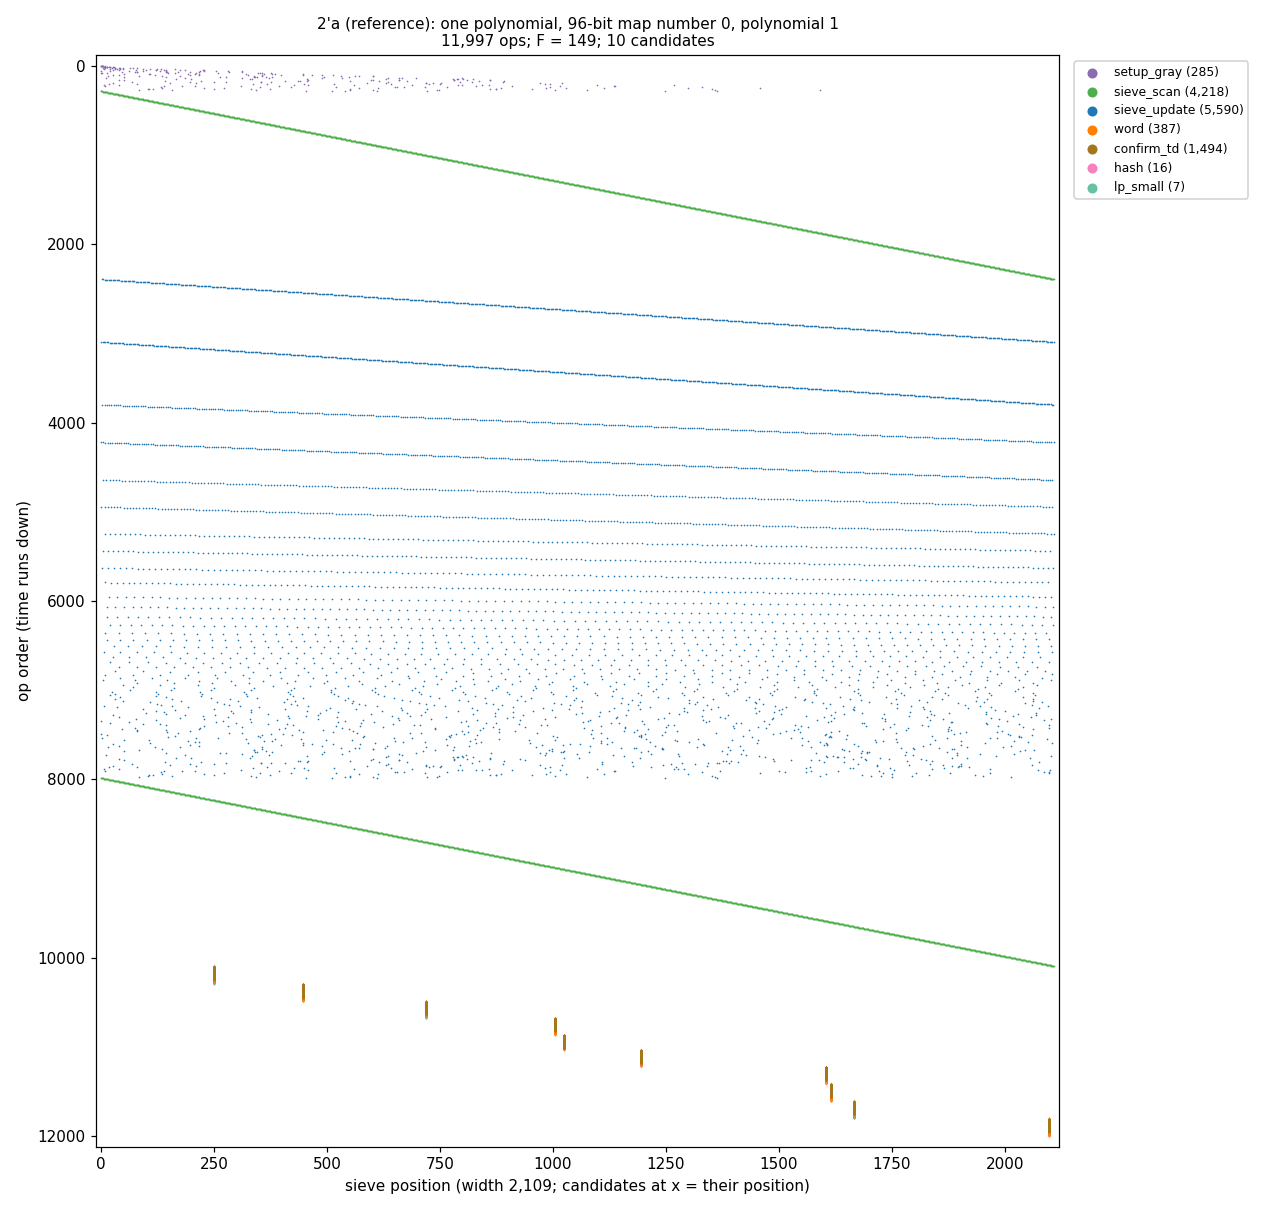
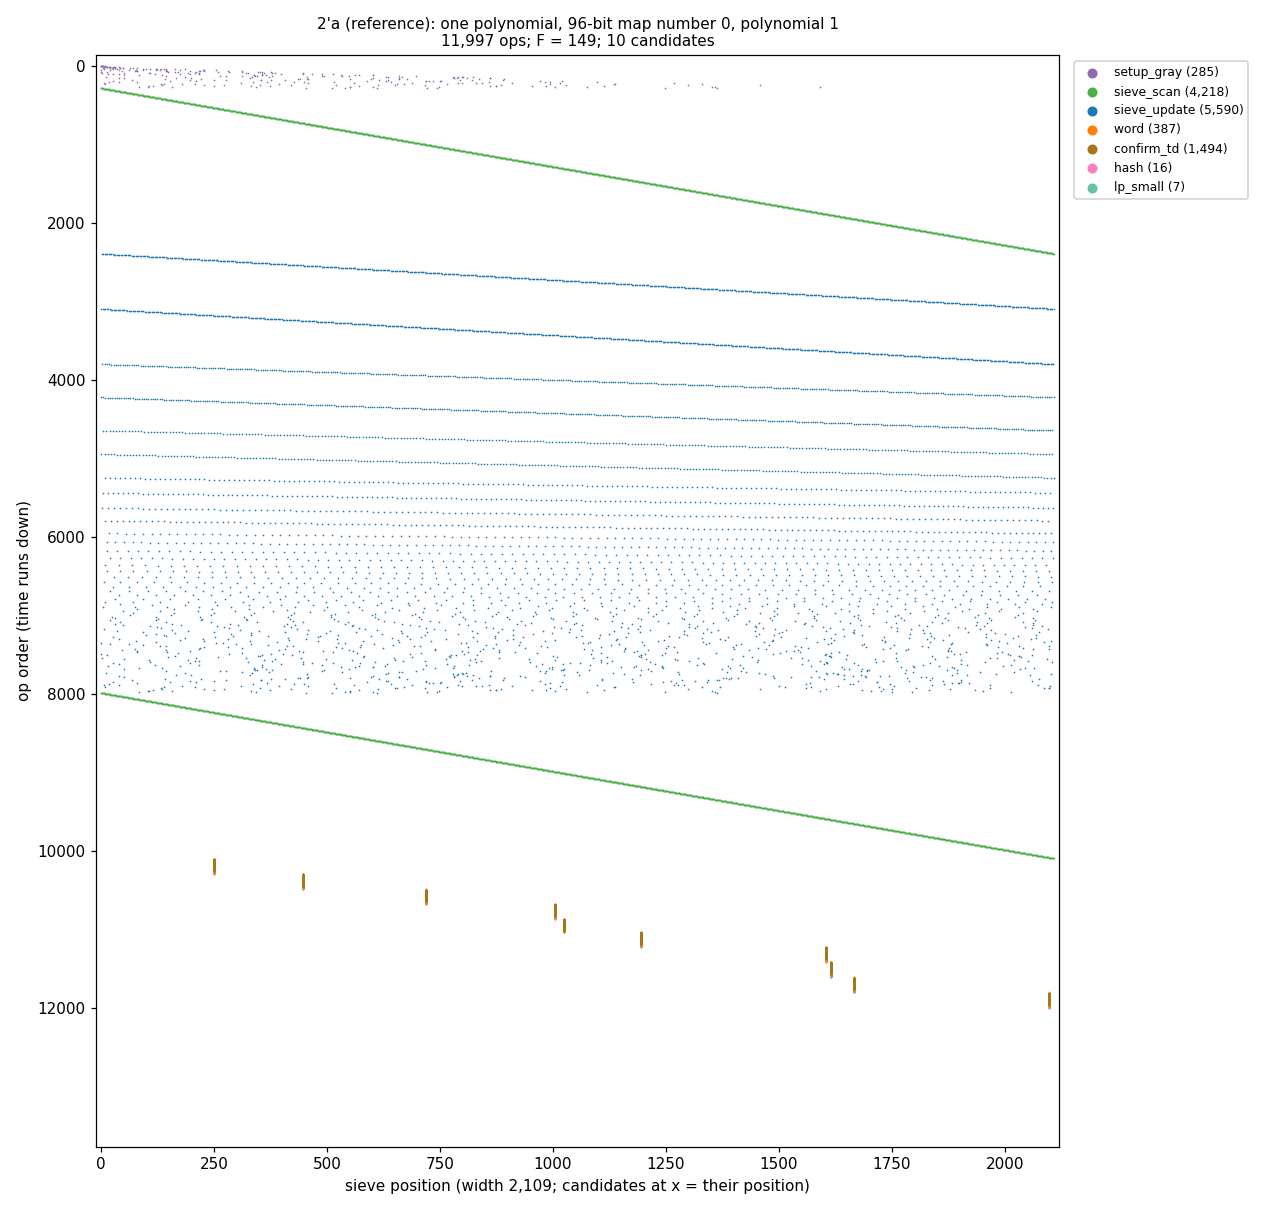
Stage 1: reviews/worktraces.md (the four work-trace pictures with plain-English captions: axes, colours, the free-2 grey band, the root-confirm ticks) and a fourth picture, the reference since Oct 27 (2'b, corrected meter; op for op the 2'b trace, since no pp); all pictures on one y axis; Python onl

diff --git a/evolve/worktrace.py b/evolve/worktrace.py
@@ -3,6 +3,7 @@ of one 96-bit map number, as motion on the sieve line. x = sieve position (or th
 per-candidate work), y = op order (time runs down). Each op is a mark coloured by its charged type; uncharged work grey.
 Cells: the reference (2'a), 2'b, and 2'b+pp3 (+0) drawn under the uncorrected meter (the free 2's writes uncharged,
 as before 6031239). Checks that the run's op count is identical with the hook on and off.
+  Also the reference since Oct 27 (2'b; no pp, so the corrected meter changes nothing in it). All pictures share one y axis.
   python3 worktrace.py -> worktrace_<cell>.png, worktrace.json (event counts), stdout"""
 import json
 import matplotlib
@@ -16,11 +17,13 @@ N = S2.map_nums(96)[0][0]
 g0 = dict(ref(96), goff=1)
 CELLS = [("2'a (reference)", "2a", dict(g0), "corrected"),
          ("2'b", "2b", dict(g0, confirm="root"), "corrected"),
-         ("2'b+pp3 +0, uncorrected meter", "2b_pp3_uncorrected", dict(g0, confirm="root", pp=3), "uncorrected")]
+         ("2'b+pp3 +0, uncorrected meter", "2b_pp3_uncorrected", dict(g0, confirm="root", pp=3), "uncorrected"),
+         ("the reference since Oct 27 (2'b), corrected meter", "reference_2b", dict(g0, confirm="root"), "corrected")]
 COL = {"setup_gray": "#8c6bb1", "sieve_scan": "#4daf4a", "sieve_update": "#1f78b4", "word": "#ff7f00",
        "root_test": "#e31a1c", "confirm_td": "#a6761d", "hash": "#f781bf", "lp_small": "#66c2a5", "lp_full": "#1b9e77",
        "sieve_scan:free2": "#4daf4a"}
 summary = {}
+traces = []
 for title, tag, g, meter in CELLS:
     qs.WORKTRACE = None
     ops0, f0 = lamps.run([g], N, P.QS_CAP)
@@ -28,6 +31,9 @@ for title, tag, g, meter in CELLS:
     ops1, f1 = lamps.run([g], N, P.QS_CAP)
     wt = qs.WORKTRACE; qs.WORKTRACE = None
     assert (ops0, f0) == (ops1, f1), "the hook changed the run"
+    traces.append((title, tag, wt))
+YMAX = max(len(wt["events"]) for _, _, wt in traces)     # one y axis for every picture
+for title, tag, wt in traces:
     ev = wt["events"]
     fig, ax = plt.subplots(figsize=(11.5, 11), dpi=110)
     groups = {}
@@ -43,7 +49,7 @@ for title, tag, g, meter in CELLS:
             ax.scatter(xs, ys, s=1.2, c="#9e9e9e" if k == "uncharged" else COL[k], linewidths=0,
                        label=f"{'uncharged (free-2 writes)' if k == 'uncharged' else k} ({len(xs):,})")
     ax.set_xlim(-10, wt["width"] + 10)
-    ax.set_ylim(len(ev) * 1.01, -len(ev) * 0.01)
+    ax.set_ylim(YMAX * 1.01, -YMAX * 0.01)
     ax.set_xlabel(f"sieve position (width {wt['width']:,}; candidates at x = their position)")
     ax.set_ylabel("op order (time runs down)")
     ax.set_title(f"{title}: one polynomial, 96-bit map number 0, polynomial {TARGET}\n{len(ev):,} ops; F = {wt['F']}; "

diff --git a/reviews/worktraces.md b/reviews/worktraces.md
@@ -1,0 +1,53 @@
+# Work traces (IDEAS I-044): one polynomial's work as motion on the sieve line
+
+A prototype, information only. Made by `evolve/worktrace.py` from the Python card, which matches lampcore op for op by parity. lampcore is untouched.
+
+**How to read every picture:**
+- **What is shown:** one polynomial, the run's second, which is the first with a Gray-code switch, of the first 96-bit map number.
+- **Horizontal:** the sieve line, positions 0 to 2,108 (the interval [−M, M]).
+- **Vertical:** op order, with time running **down**. Every dot is one op, at the position it touches. Work done per candidate (a root test, a trial division) sits at that candidate's position.
+- **Colours:** dots take the colour of the type the meter charges them as. **Grey is work the meter does not charge.**
+- **Axes:** all four pictures share the same axes, so their heights compare directly.
+- **Approximate:** the per-candidate word and hash marks are placed approximately, by the trace hook.
+
+The work reads top to bottom:
+1. **A purple scatter at the very top:** the Gray switch updating every root's offset (setup_gray).
+2. **A long green diagonal:** the array cleared, one cell at a time.
+3. **Blue horizontal streaks:** each base prime's sieve walk. Small primes are dense streaks that take many ops; large primes are sparse ones that take few. Together they become a speckled band.
+4. **A second green diagonal:** the scan for candidates.
+5. **Short vertical ticks near the bottom:** the candidates. Each tick is that candidate's confirmation work stacked in time.
+
+## 2′a: the reference until Oct 26–27 (goff = 1, full-pass confirmation)
+
+![2'a work trace](../evolve/worktrace_2a.png)
+
+The candidates' ticks are **brown**: each candidate is trial-divided by every factor-base prime, about F − 1 = 148 small-modulus divisions (confirm_td). These are the tallest ticks of the four pictures.
+
+## 2′b: root confirm on top of 2′a
+
+![2'b work trace](../evolve/worktrace_2b.png)
+
+Everything above the candidates is the same as 2′a: the same gray, clear, walks and scan. The ticks change colour: they are mostly **red** (root_test), one cheap root test per sieved prime, with a short brown tail of real divisions only for the primes that hit.
+
+The old root-confirm design, before 2′b, would have shown a **second pass per polynomial** here: an extra sweep storing every root's start offset. 2′b reads the offsets the Gray code already keeps, so there is no such sweep.
+
+## 2′b+pp3 at +0 bits, under the uncorrected meter (before 6031239)
+
+![2'b+pp3 uncorrected work trace](../evolve/worktrace_2b_pp3_uncorrected.png)
+
+The **grey diagonal** between the green clear and the first blue walks is the free-2 initialisation: a write to every second cell (a stride-2 band, about 1,055 writes). Before the free-2 meter correction it was **uncharged**. The picture makes the hole visible: an entire sweep of the line that the meter did not see. Since 6031239 it is charged as sieve_scan.
+
+pp 3 also adds more candidates (12 here, against 10), so there are more ticks.
+
+## The reference since Oct 27 (2′b), under the corrected meter
+
+![reference 2'b work trace](../evolve/worktrace_reference_2b.png)
+
+This is the adopted reference. It has no pp, so the free-2 correction does not touch it: its trace is op for op the 2′b picture above (12,151 ops). It is shown under its own name as the baseline for future traces.
+
+## What this does not show
+
+- **Time:** one dot is one counted op, not one nanosecond. A root test and a trial division take the same vertical space here, though they differ in instructions (op-class v1: 52 against 108) and in time.
+- **The per-A setup:** the inverses and the roots for each A, done before this polynomial.
+- **Other polynomials:** only one is shown.
+- **Other lamps:** a later version could trace rho (the Wander) and ECM.
